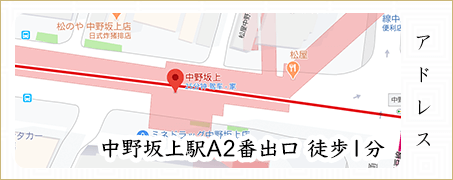
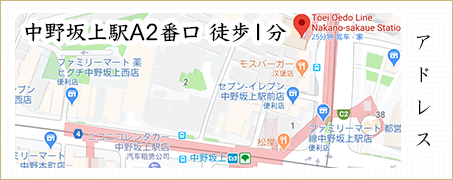
ss
ss

diff --git a/access.html b/access.html
@@ -60,8 +60,8 @@
 <div class="accesstitle"></div>
     </div>
     <div class=" access">
-      <iframe src="https://www.google.com/maps/embed?pb=!1m18!1m12!1m3!1d608.2280091088345!2d139.68200827726835!3d35.69706757983547!2m3!1f0!2f0!3f0!3m2!1i1024!2i768!4f13.1!3m3!1m2!1s0x6018f2d02fe11867%3A0xa6636c2172a9c681!2z5Lit6YeO5Z2C5LiK!5e0!3m2!1szh-CN!2sjp!4v1581846583735!5m2!1szh-CN!2sjp" width="600" height="450" frameborder="0" style="border:0;" allowfullscreen=""></iframe>
-        <div class="address">中野坂上駅A2番出口 徒歩1分</div>
+      <iframe src="https://www.google.com/maps/embed?pb=!1m18!1m12!1m3!1d810.0381055263999!2d139.6821313291884!3d35.69786659876191!2m3!1f0!2f0!3f0!3m2!1i1024!2i768!4f13.1!3m3!1m2!1s0x6018f2d04bc801fb%3A0x5442531131ba3d9d!2sToei%20Oedo%20Line%20Nakano-sakaue%20Station%2C%202-ch%C5%8Dme-2-28%20Ch%C5%AB%C5%8D%2C%20Nakano%20City%2C%20T%C5%8Dky%C5%8D-to%20164-0011!5e0!3m2!1szh-CN!2sjp!4v1582028327571!5m2!1szh-CN!2sjp" width="600" height="450" frameborder="0" style="border:0;" allowfullscreen=""></iframe>
+        <div class="address">中野坂上駅A2番口 徒歩1分</div>
         <div class="teleph"><a href="tel://08096671836">Tel:080-9667-1836</a></div>
     </div>
     <div class="end">
